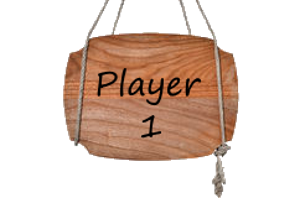
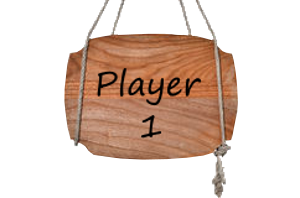
added a player indicator

diff --git a/styles.css b/styles.css
@@ -66,14 +66,15 @@ body {
 /* Player Barrels*/
 /* positioned absolute to avoid any troubles switching board size. */
 .left{
-    float: left;
+
     position: absolute;
 }
 
 .right {
-    float: right;
+    position: absolute;
+    right: 0;
 }
-.playerIndicator>img{
+.playerIndicator img{
     width: 180px;
 }
 
@@ -190,13 +191,14 @@ button{
     bottom: 10%;
 }
 .visible-xs button:hover{
-    color: #fc0302
+    color: #fc0302;
 }
 
 /*add this class for resetting the cards, setTimeout function to remove class*/
 .reset-row {
-    transform: rotateX(90deg);
+    transform: rotateX(92deg);
     transform-origin: 50% 100%;
+    backface-visibility: hidden;
 }
 
 /* Winner Modal */
@@ -222,15 +224,10 @@ button{
     }
 
     /* Player Barrels*/
-    .playerIndicator>img{
+    .playerIndicator img{
         width: 250px;
     }
 
-    /*add this class for resetting the cards, setTimeout function to remove class*/
-    .reset-row {
-        transform: rotateX(90deg);
-        transform-origin: 50% 100%;
-    }
 
     /* Game Selector & Reset Sign */
     #game_sign{
@@ -275,7 +272,7 @@ button{
 
 /* Medium Devices, Desktops */
 @media only screen and (min-width : 992px){
-
+    /* Game Board */
     .board-one {
         top: 23%;
     }
@@ -284,14 +281,14 @@ button{
     }
 
     /* Player Barrels*/
-    .playerIndicator>img{
+    .playerIndicator img{
         width: 300px;
     }
 
+    /* Game Level & Reset */
     .sign{
         width: 280px;
     }
-
     .switch {
         left: 25%;
         font-size: 220%;
@@ -310,12 +307,13 @@ button{
 
 /* Large Devices, Wide Screens */
 @media only screen and (min-width : 1200px){
-
+    /* Game Board */
     .board-one {
         top: 21%;
     }
 
-    .playerIndicator>img {
+    /* Player Barrels */
+    .playerIndicator img {
         width: 340px;
     }
 

diff --git a/board.js b/board.js
@@ -15,6 +15,7 @@ var tictactoeBoard = function(gameContainer){
         var squareIndex = $(element).attr("squareIndex");
         if (self.gameSquares[rowIndex][squareIndex] == '') {
             self.whoseTurn(element);
+            return true;
         }
     };
 
@@ -28,6 +29,7 @@ var tictactoeBoard = function(gameContainer){
 
         var $first = $(element).find('.div1');
         var $second = $(element).find('.div2');
+
 
         if (xTurn) {
             $('audio').attr('autoplay', 'autoplay').trigger('load');

diff --git a/index.html b/index.html
@@ -15,7 +15,9 @@
 <body>
     <div class="playerIndicator">
         <img src="images/barrel-one.png" class="left" alt="player one sign">
+        <img src="images/player1Turn.png" class="left playerOne">
         <img src="images/barrel-two.png" class="right" alt="player two sign">
+        <img src="images/player2Turn.png" class="right playerTwo" style="display: none">
     </div>
 
     <!--   3x3 game board  -->

diff --git a/main.js b/main.js
@@ -19,7 +19,11 @@ $(document).ready(function () {
 
     //click handler for ducks/tic-tac-toe squares
     $(".center").on("click", ".target", function () {
-        game.canIClick(this);
+        var player = game.canIClick(this); //if the player can click the square return true
+        if(player) {
+            $(".playerOne").toggle();
+            $(".playerTwo").toggle();
+        }
     });
 
 
